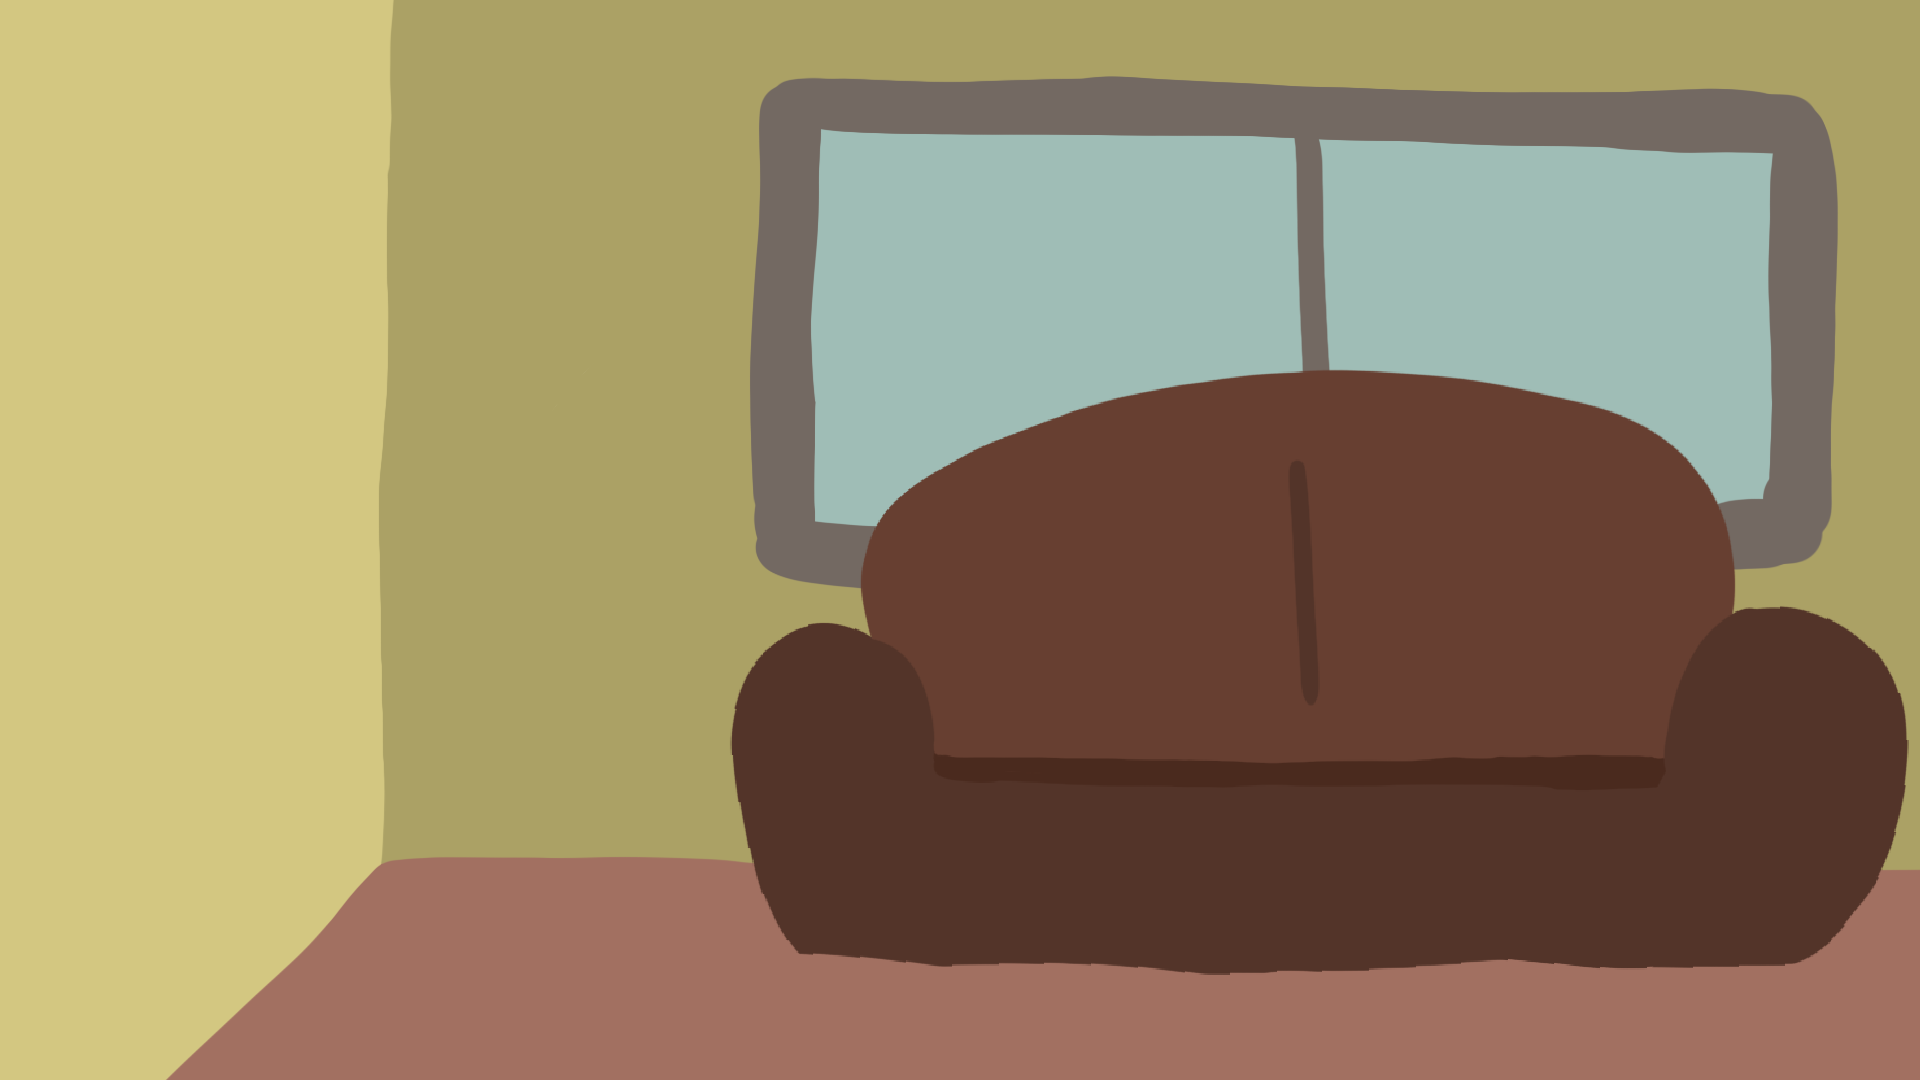
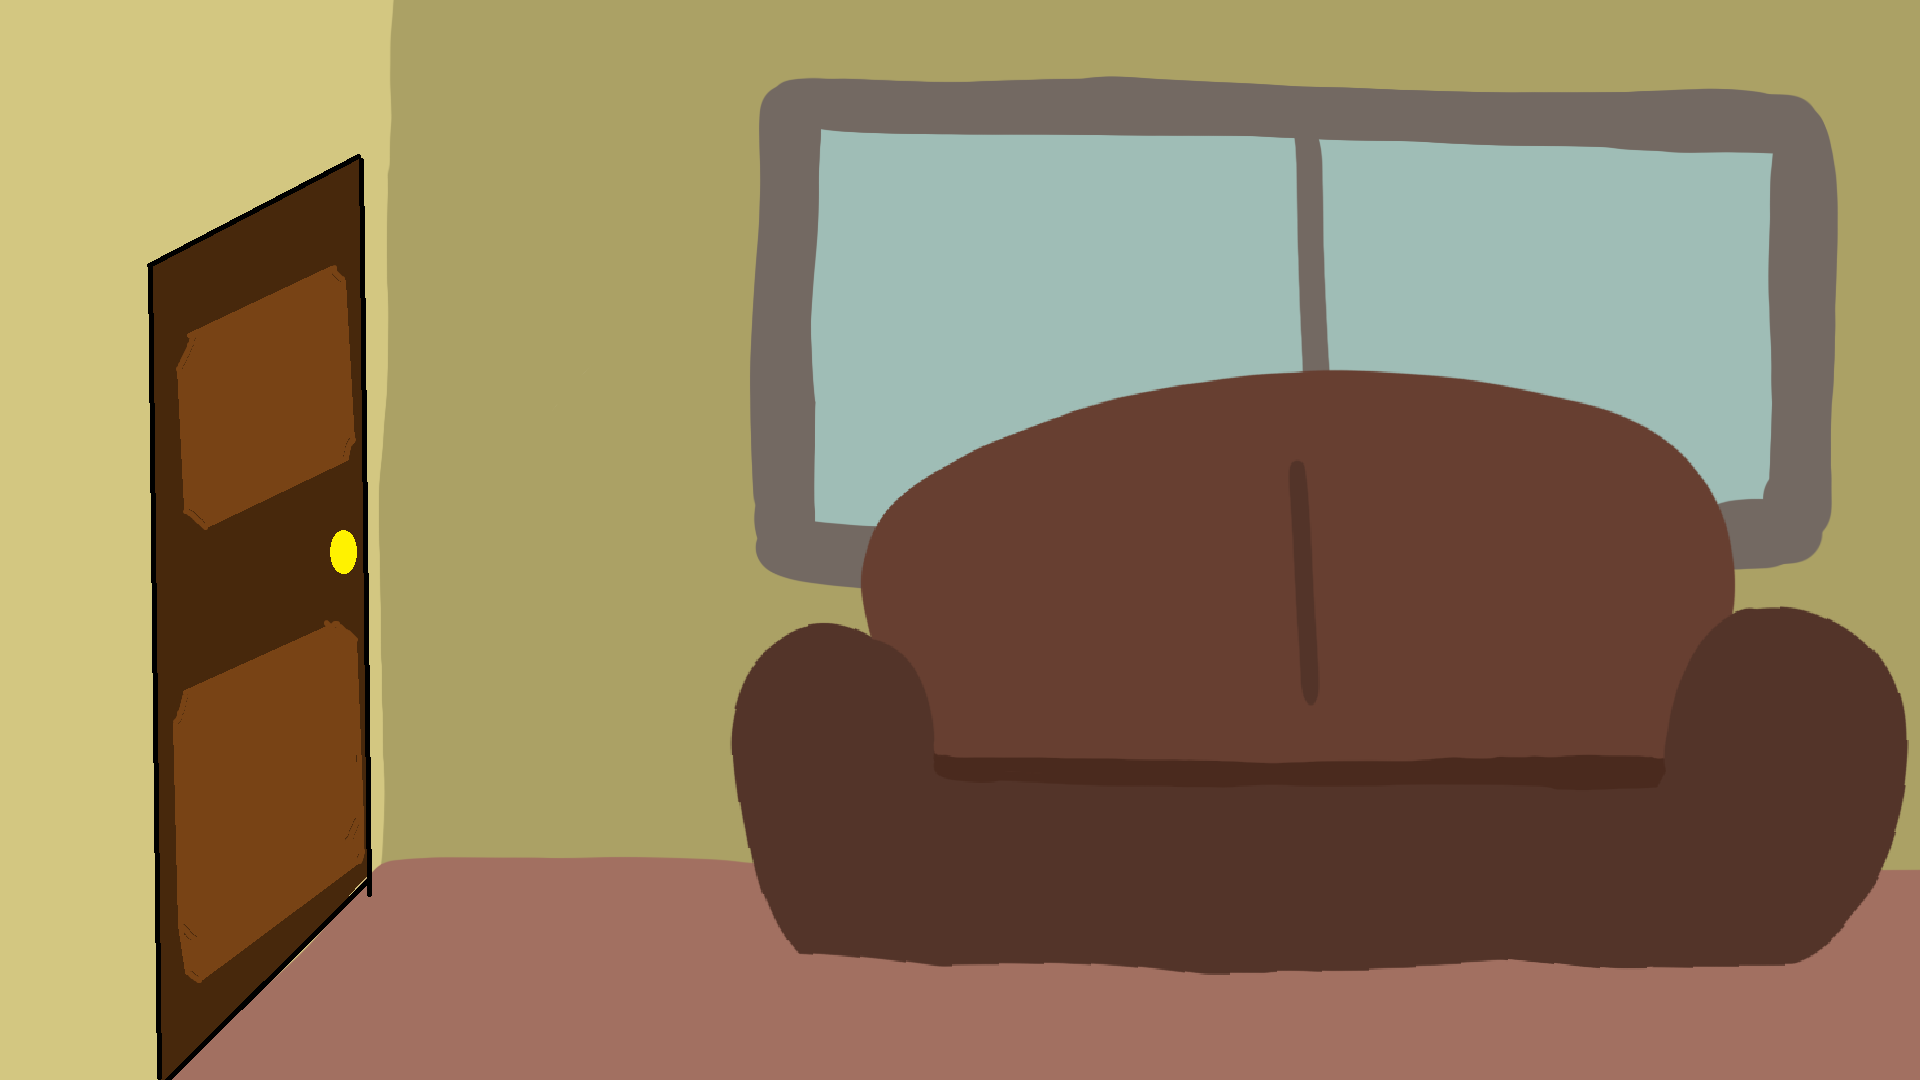
14 april dingen fix
Controller support
teleporter
idk

Changed region(s): [[0.0625, 0.1528, 0.2188, 1.0]]

diff --git a/Assets/damian's shit/pickup.cs b/Assets/damian's shit/pickup.cs
@@ -7,7 +7,9 @@ using TMPro;
 
 public class pickup : MonoBehaviour
 {
-    
+    private static int score = 0; // Static variable to store the score
+
+
     // Sbyte is beter dan een int MAIK want dat spaart geheugen -_-
     // [SerializeField] 
     // private sbyte number;
@@ -18,22 +20,48 @@ public class pickup : MonoBehaviour
     [SerializeField]
     private GameObject corespondantNumber;
 
+    [SerializeField]
+    public GameObject teleport;
+
     // void Start()
     // {
     //     textComponent.text = number.ToString();
     // }
 
+    void Start()
+    {
+        teleport.SetActive(false);
+    }
+
     void ShowNumber()
     {
         corespondantNumber.SetActive(true);
+    }
+    void ShowTel()
+    {
+        teleport.SetActive(true);
+
     }
 
     private void OnTriggerEnter2D(Collider2D collision)
     {
         if (collision.tag == "Player")
         {
+            score++;
             ShowNumber();
             Destroy(gameObject);
+
+            Debug.Log("Score: " + score);
+
+            if (score == 5)
+            {
+                Debug.Log("Ja");
+                // startDialog();
+                ShowTel();
+            }
         }
     }
+
+
+
 }

diff --git a/Assets/damian's shit/telport.cs b/Assets/damian's shit/telport.cs
@@ -1,0 +1,25 @@
+using System.Collections;
+using System.Collections.Generic;
+using UnityEngine;
+using UnityEngine.SceneManagement;
+public class telport : MonoBehaviour
+{
+
+    private void OnTriggerEnter2D(Collider2D other)
+    {
+        if (other.CompareTag("Player"))
+        {
+            SceneManager.LoadScene("Scenes/Scene1");
+        }
+    }
+    void Start()
+    {
+
+    }
+
+    // Update is called once per frame
+    void Update()
+    {
+
+    }
+}
